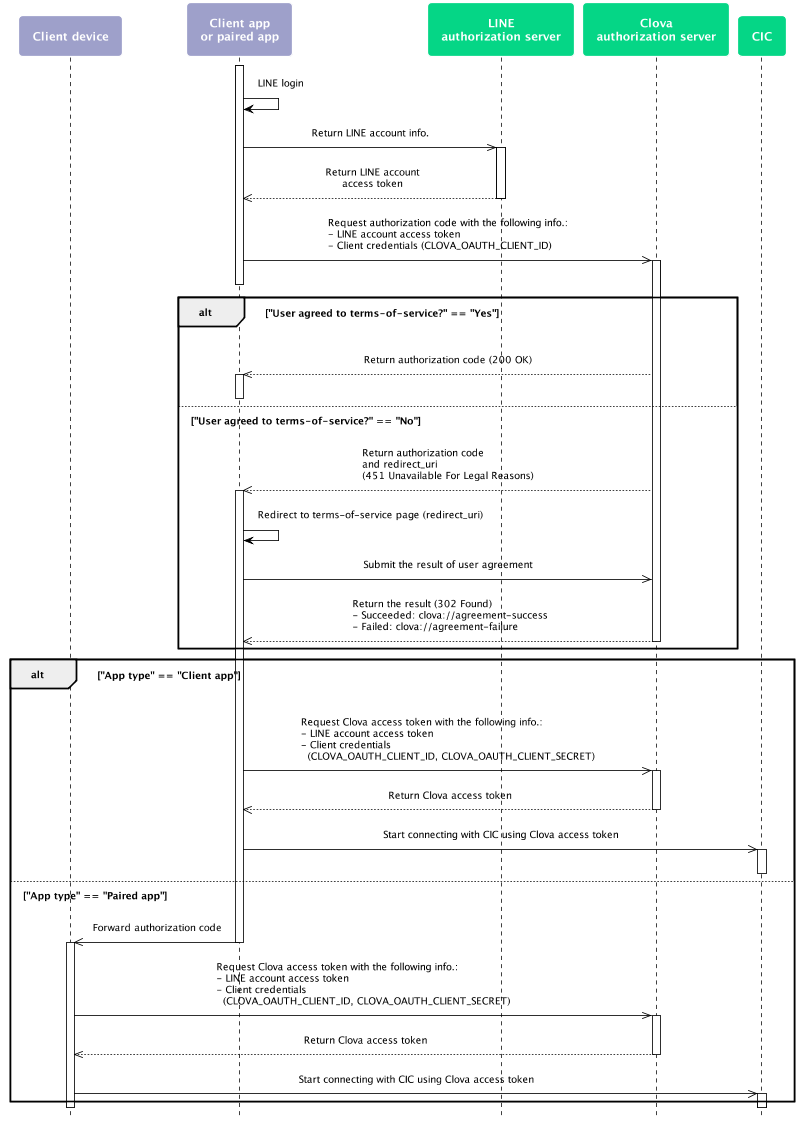
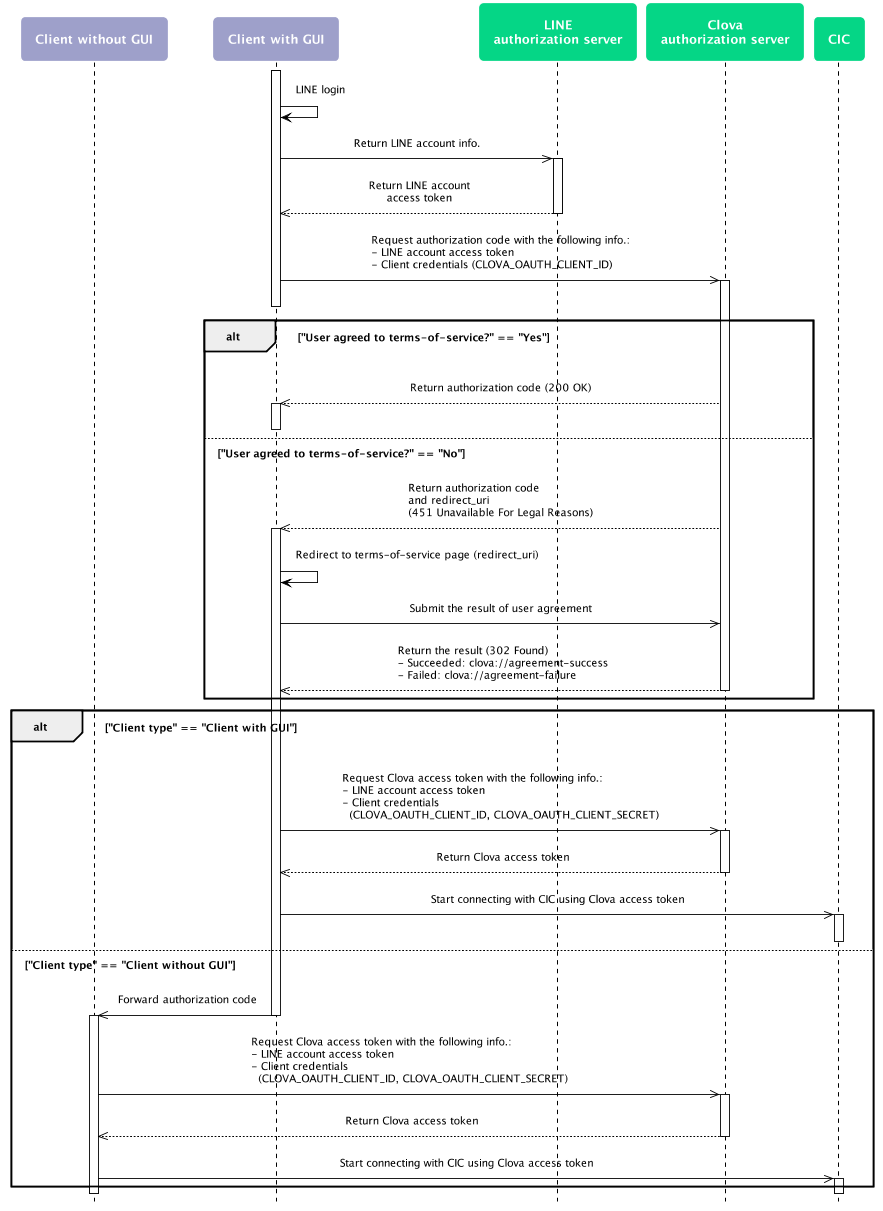
Update authorization description and image by client device type update
Former-commit-id: 0d58001e21501722f6b80437ada34f51ca6806e4 [formerly e4991fa384462d51eb5b3cdc91679965f6e3a91e]
Former-commit-id: cb849b6d91876712ed36b5719f4f8d46bf0ccc59

diff --git a/ko/CIC/Guides/InteractWithCIC/Connect_to_CIC.md b/ko/CIC/Guides/InteractWithCIC/Connect_to_CIC.md
@@ -9,8 +9,8 @@
 사용자는 {{ book.TargetServiceForClientAuth }} 계정을 클라이언트의 기기나 앱에 인증해야 Clova를 사용할 수 있습니다. {{ book.TargetServiceForClientAuth }} 계정 인증 정보까지 처리된 Clova access token을 Clova 인증 서버로부터 획득해야 클라이언트가 CIC로 연결을 시도할 수 있습니다. 이를 위해 [Clova 인증 API](/CIC/References/Clova_Auth_API.md)를 이용해야 합니다.
 
 아래 그림은 클라이언트가 Clova access token은 획득하는 흐름을 나타내고 있습니다. 참고로 클라이언트는 두 가지 유형으로 구분되며, 각 유형에 따라 Clova access token을 획득하는 과정이 조금 달라집니다.
-* **기기 타입의 클라이언트**: 스피커나 가전 제품에 임베드된 형태로 Clova 서비스를 제공하는 클라이언트입니다. 이런 기기 타입의 클라이언트는 사용자가 계정을 인증할 때 기기를 통해 인증 정보를 입력할 방법이 없거나 불편하기 때문에 이를 보조하기 위해 페어링 앱(paired app)을 제공합니다.
-* **앱 타입의 클라이언트**: Clova 앱과 같이 소프트웨어 형태로 Clova 서비스를 제공하는 클라이언트입니다.
+* **GUI 미제공 클라이언트**: 스피커나 화면이 없는 가전 제품에 임베드된 형태로 Clova 서비스를 제공하는 클라이언트입니다. 이런 타입의 클라이언트는 사용자가 계정을 인증할 때 기기를 통해 인증 정보를 입력할 방법이 없거나 불편하기 때문에 이를 보조하기 위한 연동 앱(companion app)을 제공하거나 Clova 앱과 연동되어야 합니다.
+* **GUI 제공 클라이언트**: 화면이 있는 제품에 임베드된 형태로 Clova 서비스를 제공하는 클라이언트이거나 Clova 앱과 같이 소프트웨어 형태로 Clova 서비스를 제공하는 클라이언트입니다.
 
 ![](/CIC/Resources/Images/CIC_Authorization.png)
 
@@ -18,7 +18,7 @@ Clova access token을 획득하는 절차는 다음과 같습니다.
 
 <ol>
   <li>
-    <p>사용자가 {{ book.TargetServiceForClientAuth }} 계정을 인증할 수 있는 인터페이스를 클라이언트 앱 또는 클라이언트 기기와 페어링하는 앱에서 제공합니다(<a href="{{ book.LoginAPIofTargetService }}" target="_blank">{{ book.TargetServiceForClientAuth }} 아이디로 로그인하기 SDK</a>). 사용자 음성 입력만으로 계정 인증을 할 수 없기 때문에 반드시 클라이언트 앱이나 페어링 앱을 사용해야 합니다.</p>
+    <p>클라이언트는 사용자가 {{ book.TargetServiceForClientAuth }} 계정을 인증할 수 있는 인터페이스를 제공합니다(<a href="{{ book.LoginAPIofTargetService }}" target="_blank">{{ book.TargetServiceForClientAuth }} 아이디로 로그인하기</a>). <strong>GUI 미제공 클라이언트</strong>의 클라이언트는 사용자 음성 입력만으로 계정 인증을 할 수 없기 때문에 반드시 Clova 앱이나 연동 앱(companion app)을 사용해야 합니다.</p>
   </li>
   <li>
     <p>사용자가 입력한 {{ book.TargetServiceForClientAuth }} 계정 정보를 이용하여 {{ book.TargetServiceForClientAuth }} 계정 access token을 획득합니다.</p>
@@ -54,7 +54,7 @@ Clova access token을 획득하는 절차는 다음과 같습니다.
     </ul>
   </li>
   <li>
-    <p>(페어링 앱의 경우) authorization code를 실제 클라이언트 기기로 전송합니다.</p>
+    <p>(GUI 미제공 클라이언트의 경우) authorization code를 실제 클라이언트 기기로 전송합니다.</p>
   </li>
   <li>
     <p>획득한 authorization code와 <a href="#ClientAuthInfo">클라이언트 인증 정보</a> 등의 정보를 파라미터로 입력하여 <a href="/CIC/References/Clova_Auth_API.html#RequestClovaAccessToken">Clova access token을 요청</a>합니다. 다음은 Clova access token을 요청한 예입니다.</p>
